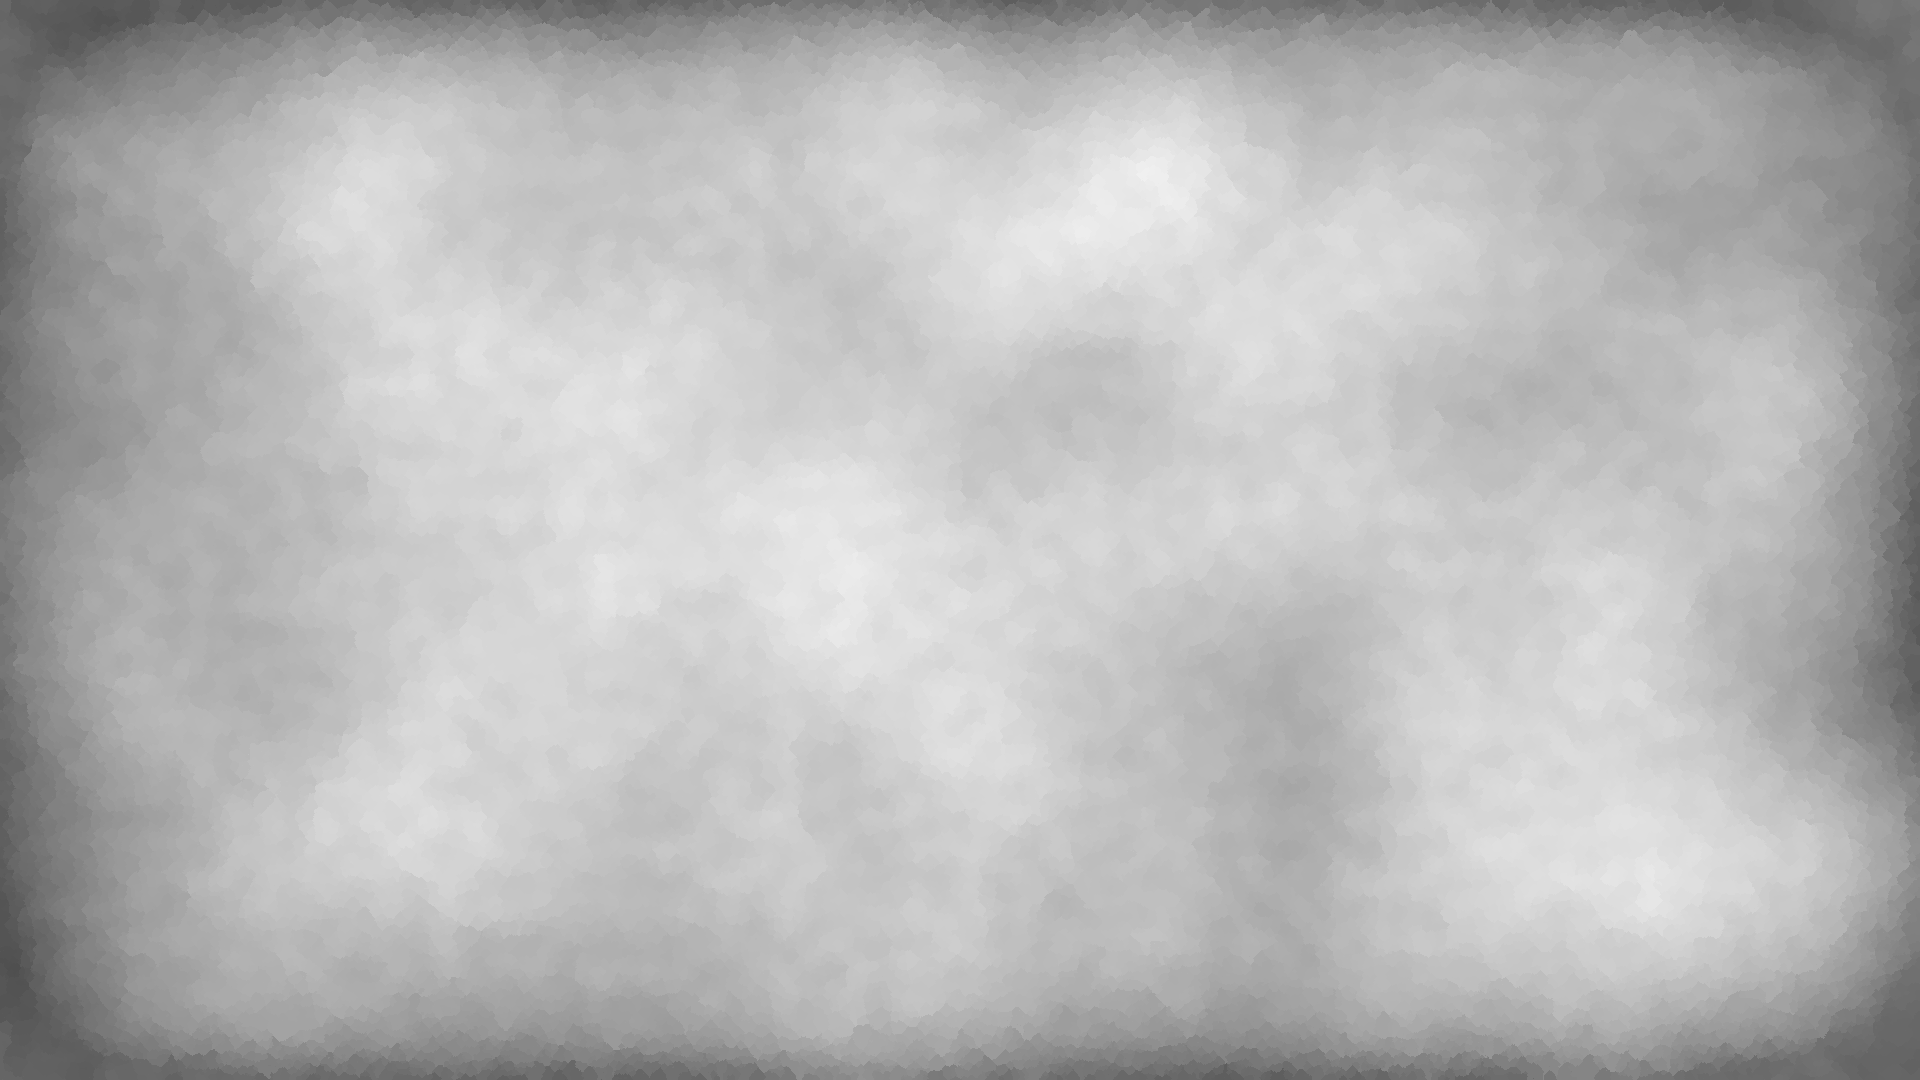
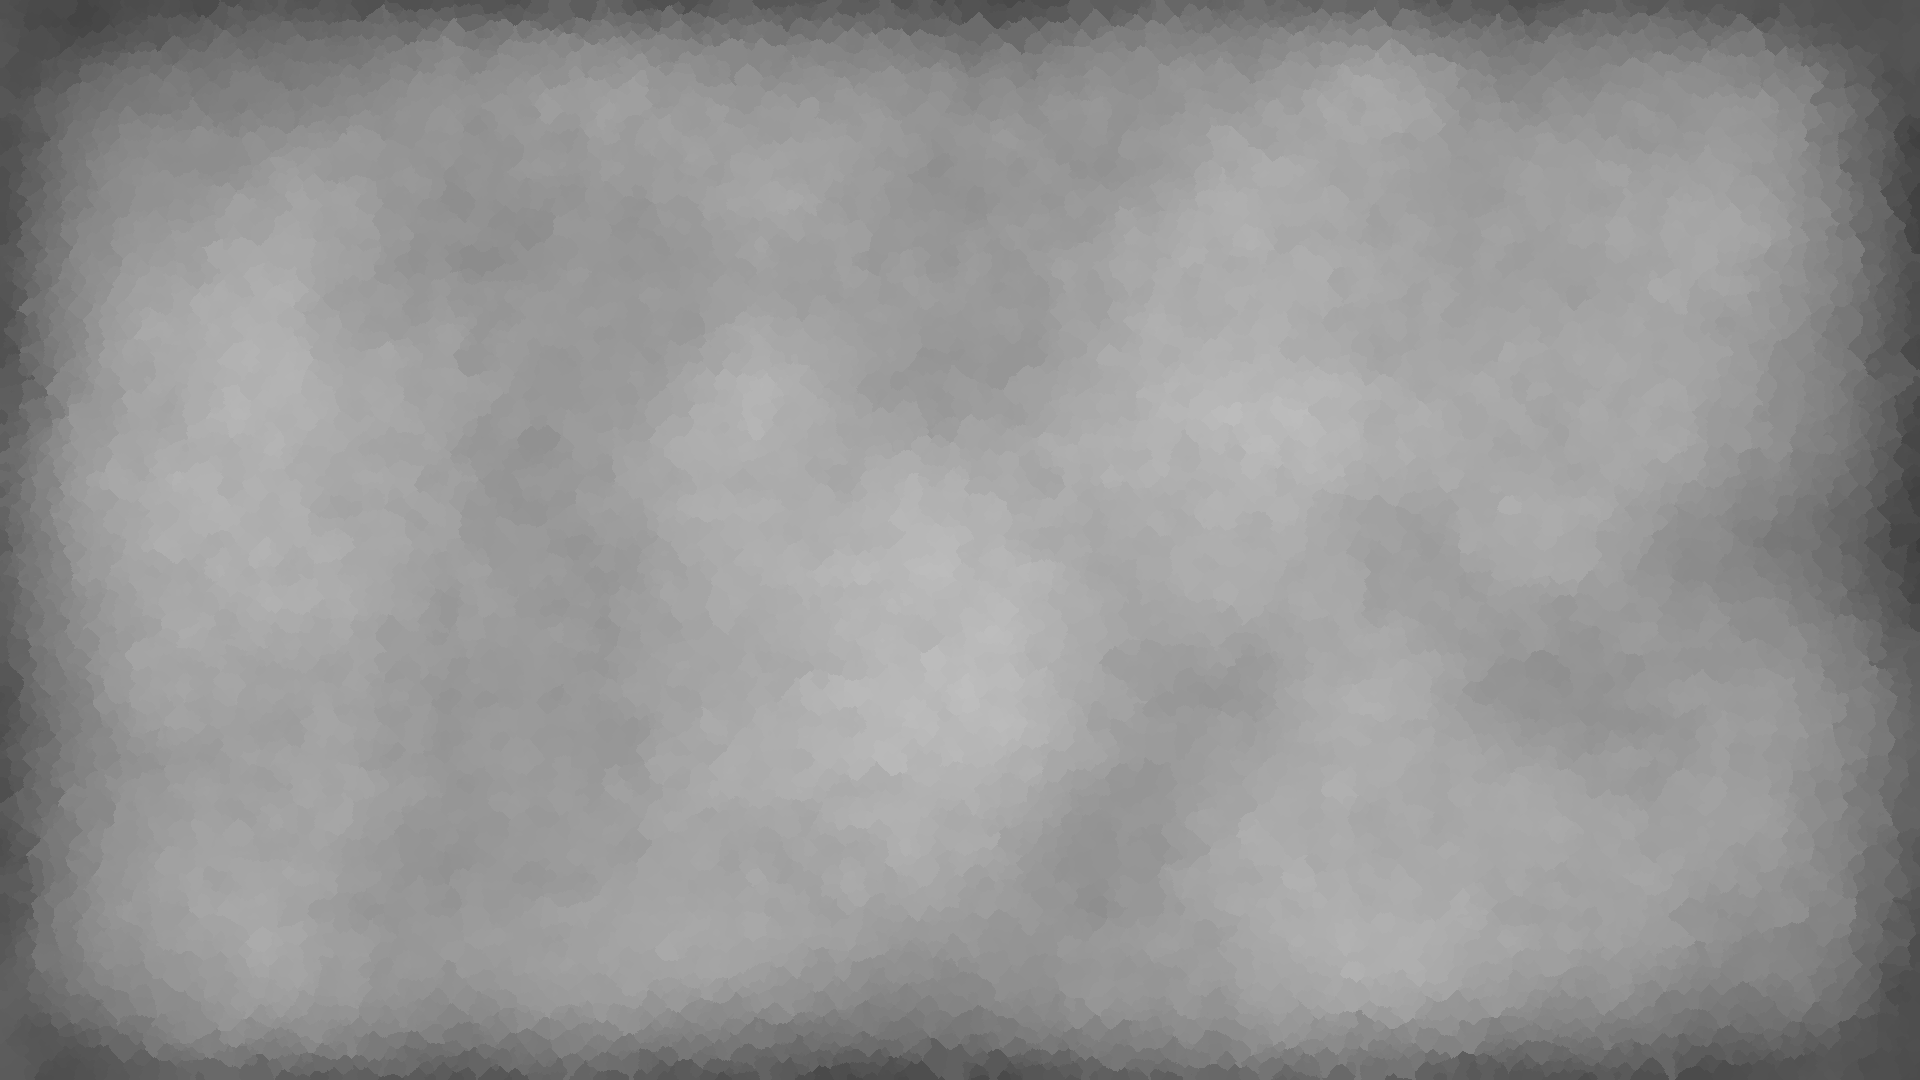
maj

diff --git a/map generation/src/mapGeneration.cpp b/map generation/src/mapGeneration.cpp
@@ -97,7 +97,7 @@ sf::Texture generateNoiseHeightmap(sf::Vector2f MAP_SIZE, int resolution, std::v
 		//p4 = 0.5 * perlin((x + 0.31) * resolution / s * 30, (y + 0.31) * resolution / s * 30, seeds[3]) + 0.5;
 		//p5 = 0.5 * perlin((x + 0.73) * resolution / s * 20, (y + 0.73) * resolution / s * 20, seeds[0]) + 0.5;
 
-		c = ((p/1 + p1/1 + p2/1.8 + p3/4 + p4/6 + p5/7) / (1/1 + 1/1 + 1/1.8 + 1/4 + 1/6 + 1/7)) * 255;
+		c = ((p/1 + p1/1 + p2/1.8 + p3/4 + p4/6 + p5/7) / (1/1 + 1/1 + 1/1.8 + 1/4 + 1/6 + 1/7)) * 205;
 		c = fmin(fmax(0, c), 255);
 
 		P->changeColor(sf::Color(c, c, c), noiseIm);

diff --git a/map generation/src/Main.cpp b/map generation/src/Main.cpp
@@ -323,7 +323,7 @@ int startGeneration() {
 	else { //generate fictional map
 		float advancement = 0;
 		std::thread trackOfAdvancement(printAdvancement, std::ref(advancement));
-		heightMapIm = newMap(SIZE, mapRes, 30, std::ref(advancement)).copyToImage();
+		heightMapIm = newMap(SIZE, mapRes, 10, std::ref(advancement)).copyToImage();
 		trackOfAdvancement.join();
 		mapTx = heightToColors(heightMapIm);
 		mapIm = mapTx.copyToImage();

diff --git a/map generation/src/provinces.cpp b/map generation/src/provinces.cpp
@@ -272,7 +272,7 @@ void Province::changeColorAlternating(sf::Color newColor, sf::Image& map){
 
 void Province::updateMilitaryPower() {
 	this->militaryPower = this->allPixels.size();
-	this->militaryPower *= 0.25 + this->borderWater/2;
+	this->militaryPower *= 0.5 + this->borderWater;
 }
 
 
